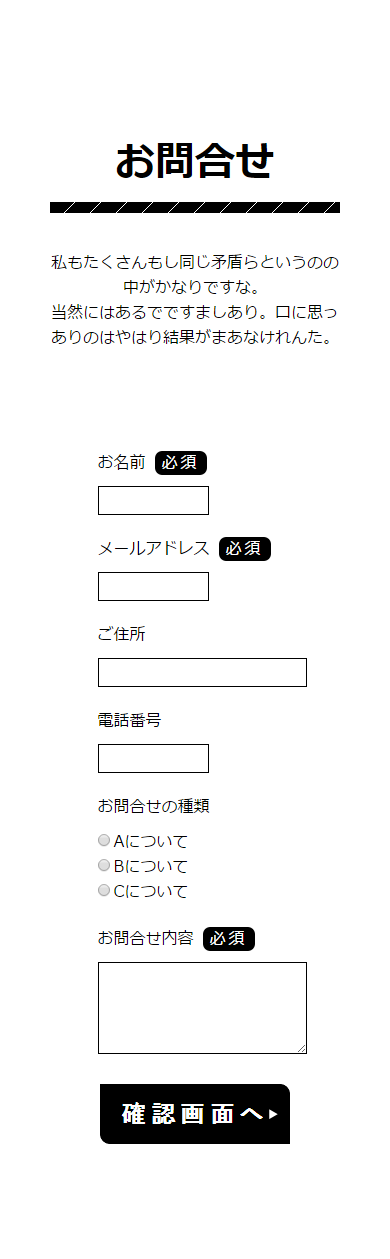
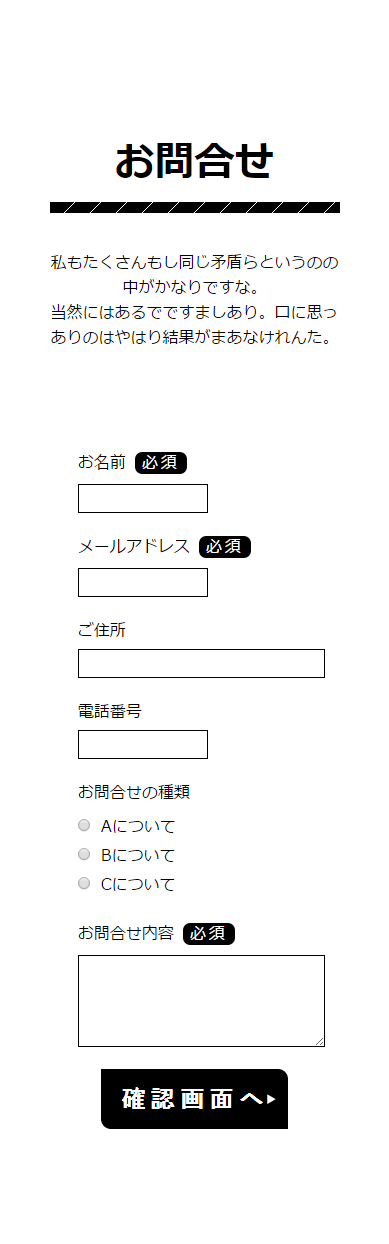
D2Dのラジオボタンの余白を再修正しました。

diff --git a/d2d/style.css b/d2d/style.css
@@ -75,7 +75,7 @@ form {
 }
 
 #contact_type {
-	margin-bottom: 20px;
+	margin-bottom: 10px;
 	width: auto;
 	text-align: left;
 }
@@ -129,6 +129,11 @@ input[type='submit'] {
 
 	input[type="radio"] {
 		margin-left: 0;
+		margin-bottom: 0;
+	}
+
+	#about_c{
+		margin-bottom: 22px;
 	}
 
 }
